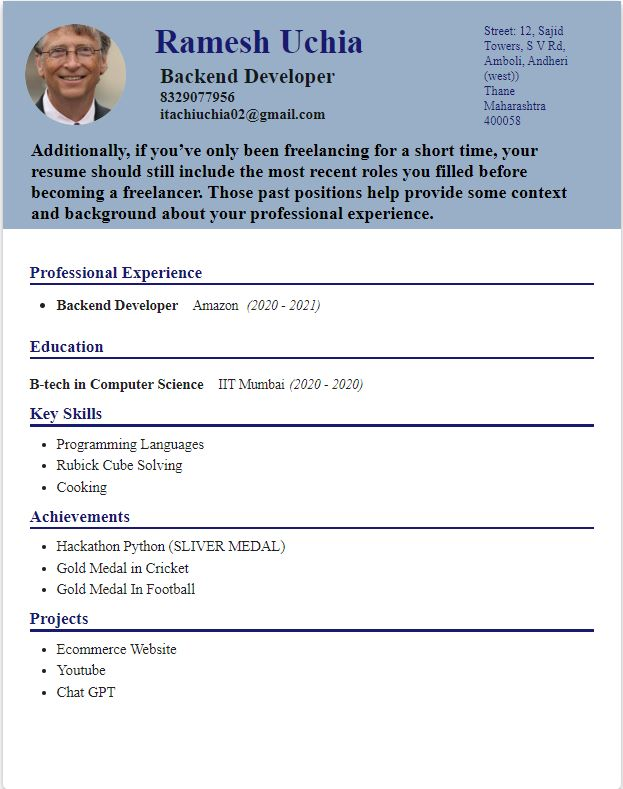
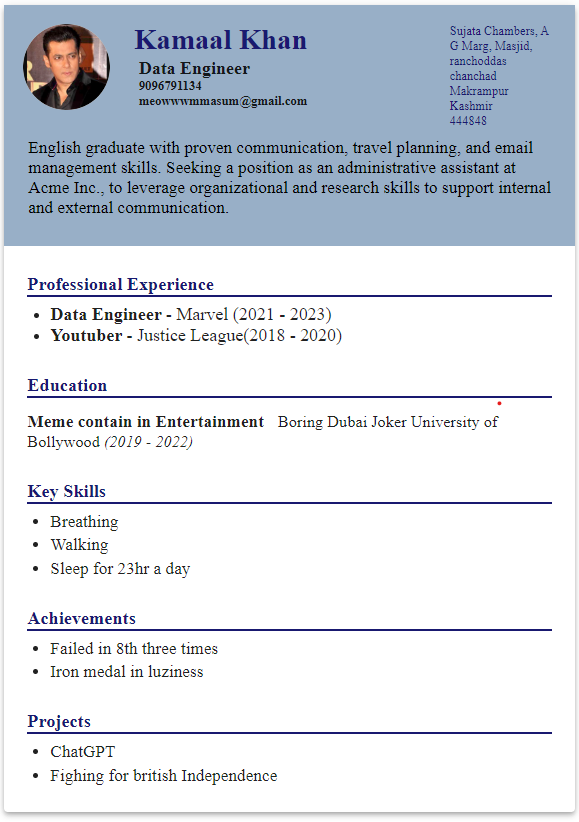
Completed Project❤

Changed region(s): [[0.0, 0.3346, 1.0, 1.0], [0.0, 0.0, 1.0, 0.3042]]

diff --git a/src/Templates/Components/styles/Header.css b/src/Templates/Components/styles/Header.css
@@ -1,75 +1,75 @@
 .templateheading {
-    width: 100%;
-    display: flex;
-    justify-content: space-between;
-    align-items: flex-start;
-    padding: 20px 20px 0px;
-    margin-bottom: 10px;
-  }
-  
-  .firsttemplateheading {
-    display: flex;
-    justify-content: flex-start;
-    align-items: center;
-  }
-  
-  .imgcontainertemplate {
-    width: 90px;
-    border-radius: 50%;
-    background-color: rgb(193, 193, 193);
-    display: flex;
-    justify-content: center;
-    align-items: center;
-    overflow: hidden;
-  }
-  
-  .imgcontainertemplate .profileimgtemplate {
-    width: 100%;
-  }
-  
-  .imgtexttemplate {
-    width: 100%;
-    text-align: center;
-    font-size: 35px;
-    font-weight: 600;
-    letter-spacing: 1px;
-  }
-  
-  .userdetailtemplate {
-    display: flex;
-    flex-direction: column;
-    align-items: flex-start;
-    margin-left: 25px;
-  }
-  
+  width: 100%;
+  display: flex;
+  justify-content: space-between;
+  align-items: flex-start;
+  padding: 20px 20px 0px;
+  margin-bottom: 10px;
+}
+
+.firsttemplateheading {
+  display: flex;
+  justify-content: flex-start;
+  align-items: center;
+}
+
+.imgcontainertemplate {
+  width: 90px;
+  border-radius: 50%;
+  background-color: rgb(193, 193, 193);
+  display: flex;
+  justify-content: center;
+  align-items: center;
+  overflow: hidden;
+}
+
+.imgcontainertemplate .profileimgtemplate {
+  width: 100%;
+}
+
+.imgtexttemplate {
+  width: 100%;
+  text-align: center;
+  font-size: 35px;
+  font-weight: 600;
+  letter-spacing: 1px;
+}
+
+.userdetailtemplate {
+  display: flex;
+  flex-direction: column;
+  align-items: flex-start;
+  margin-left: 25px;
+}
+
+.usernametemplate {
+  font-size: 30px;
+  font-weight: 600;
+  line-height: 30px;
+  margin-bottom: 5px;
+}
+
+
+.secondheadertemplate {
+  width: 20%;
+  text-align: right;
+  font-size: 14px;
+}
+
+.aboutusertemplate {
+  font-size: 15px;
+  padding: 0px 24px;
+}
+
+@media screen and (max-width: 900px) {
   .usernametemplate {
-    font-size: 30px;
+    font-size: 4vw;
     font-weight: 600;
-    line-height: 30px;
-    margin-bottom: 5px;
   }
-
-
-  .secondheadertemplate {
-    width: 20%;
-    text-align: left;
-    font-size: 11px;
+  .userdetailtemplate {
+    margin-left: 15px;
   }
-  
-  .aboutusertemplate {
-    font-size: 15px;
-    padding: 0px 24px;
+  .imgcontainertemplate {
+    width: 30%;
   }
-  
-  @media screen and (max-width: 900px) {
-    .usernametemplate {
-      font-size: 4vw;
-      font-weight: 600;
-    }
-    .userdetailtemplate {
-      margin-left: 15px;
-    }
-    .imgcontainertemplate {
-      width: 30%;
-    }
-  }
+}

diff --git a/src/Templates/Template1.js b/src/Templates/Template1.js
@@ -45,30 +45,33 @@ const Template1 = (props) => {
       id={`${props.index}report`}
       elevation={4}>
       {/* Render the header component */}
-      <Header personalInfo={personalinfo} workExperience={workexperience} />
+      <Header 
+      primaryColor={"#4A235A"}
+        secondaryColor={"black"}
+        bgColor={"#D7BDE2"}personalInfo={personalinfo} workExperience={workexperience} />
       <Container>
       <br />
-        <Heading color={"brown"} title={"Professional Experience"} />
+        <Heading color={"#4A235A"} title={"Professional Experience"} />
         <ul style={{ paddingBottom: 10 }}>
           {renderExperiences(workexperience)}
         </ul>
-        <Heading color={"brown"} title={"Education"} />
+        <Heading color={"#4A235A"} title={"Education"} />
         <EducationTemp education={educationinfo} />
         <div className='temponegrid'>
           <div>
-            <Heading color={"brown"} title={"Key Skills"} />
+            <Heading color={"#4A235A"} title={"Key Skills"} />
             <ul style={{ marginBottom: 10 }}>
               {renderSkills(skills)}
             </ul>
           </div>
           <div>
-            <Heading color={"brown"} title={"Achievements"} />
+            <Heading color={"#4A235A"} title={"Achievements"} />
             <ul style={{ marginBottom: 10 }}>
               {renderAchievements(achievements)}
             </ul>
           </div>
           <div>
-            <Heading color={"brown"} title={"Projects"} />
+            <Heading color={"#4A235A"} title={"Projects"} />
             <ul style={{ marginBottom: 10 }}>
               {renderProjects(projects)}
             </ul>

diff --git a/src/Templates/Components/ExperienceTemp.js b/src/Templates/Components/ExperienceTemp.js
@@ -9,11 +9,11 @@ const ExperienceTemp = (props) => {
     <Container>
       <li>
         <h3 className="experienceheading">
-          {props.experience.jobTitle}{" "}
-          <span className="orgnameexperience">
-            {props.experience.organizationName}
+        {props.experience.jobTitle}{" "}
+          <span className="orgnameexperience" style={{fontWeight:"500"}}>
+           {"-"} {props.experience.organizationName}
           </span>
-          <span className="startendyear">
+          <span className="startendyear" style={{fontWeight:"400"}}>
             ({props.experience.startYear} - {props.experience.endYear})
           </span>
         </h3>

diff --git a/src/Templates/Components/Header.js b/src/Templates/Components/Header.js
@@ -65,7 +65,7 @@ const Header = (props) => {
       {/* Display the user's objective */}
       <p
         style={{ color: props.secondaryColor,
-          fontSize:"16px", margin:"5px"}}>
+          fontSize:"18px", margin:"5px"}}>
         {props.personalInfo.objective}
       </p>
       <br />
